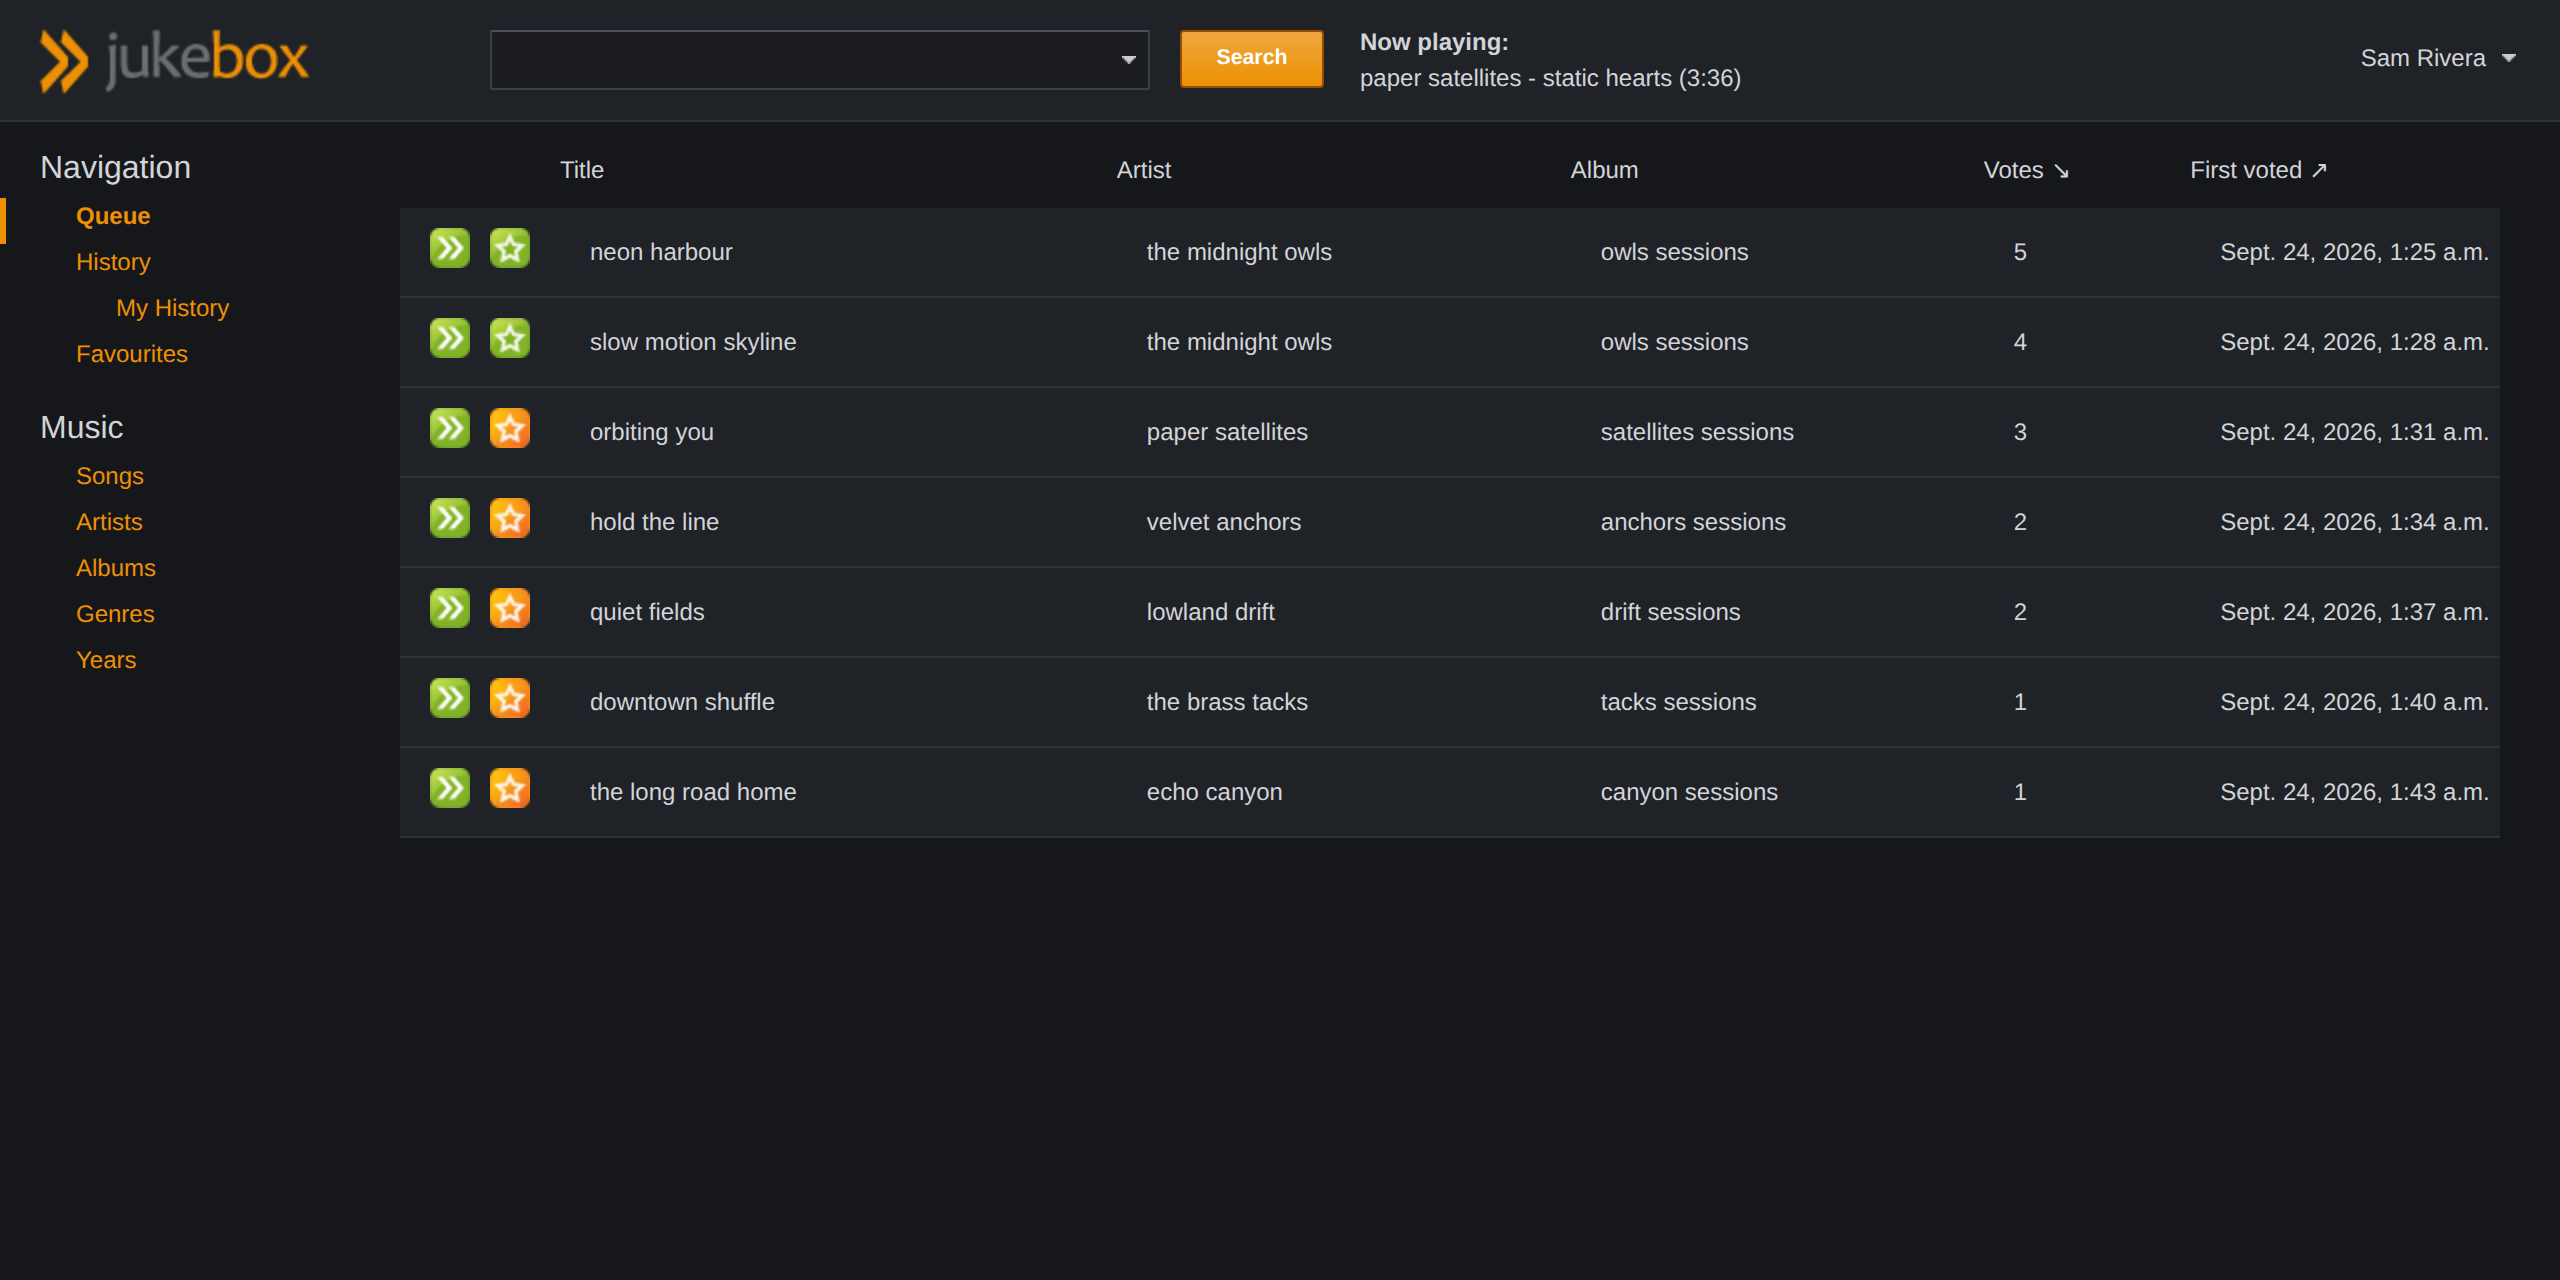
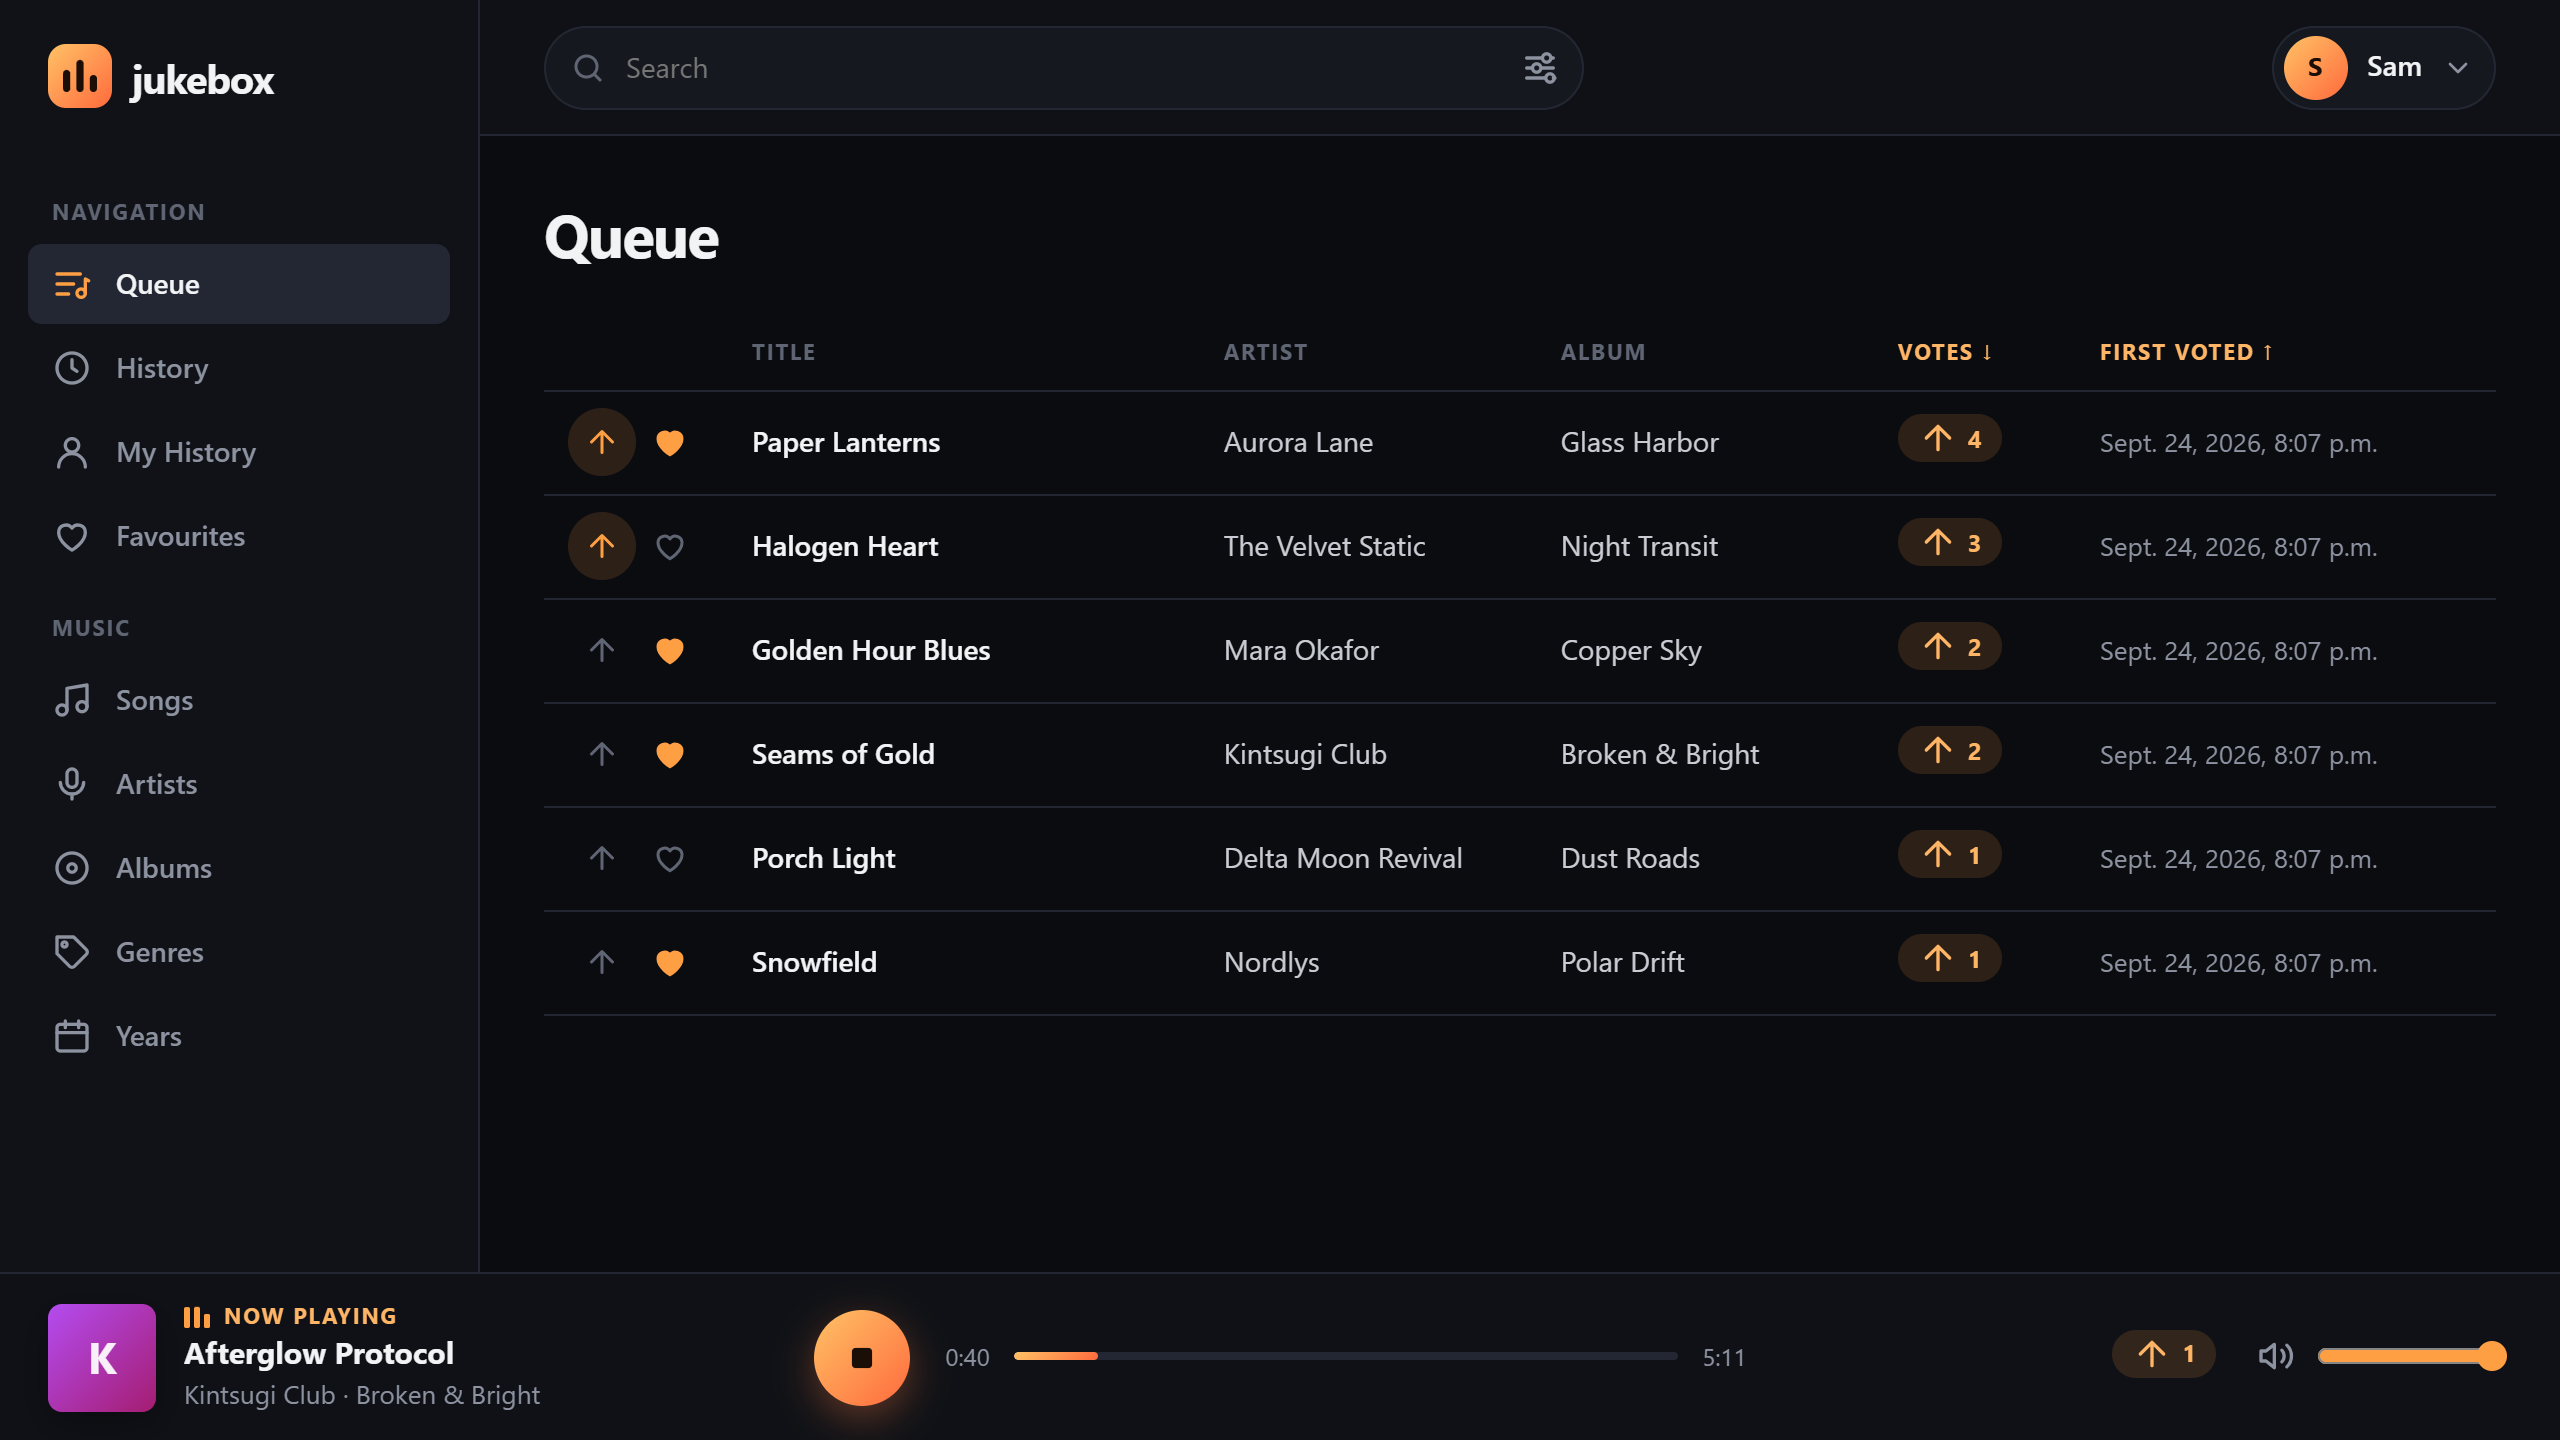
Retake the README screenshots for the new design
Adds the light theme and a phone next to the dark queue and login page.
Taken with demo data, not a real library.

diff --git a/README.md b/README.md
@@ -25,6 +25,11 @@ keeps going and picks music that matches the taste of whoever is currently onlin
 - **RSS feed** of the next song at `/feed/`
 - English and German interface
 
+<p>
+  <img src="docs/screenshots/songs-light.png" alt="Song library in the light theme" width="68%">
+  <img src="docs/screenshots/mobile-dark.png" alt="Queue on a phone" width="24%">
+</p>
+
 ## Requirements
 
 - Python 3.10 or newer
